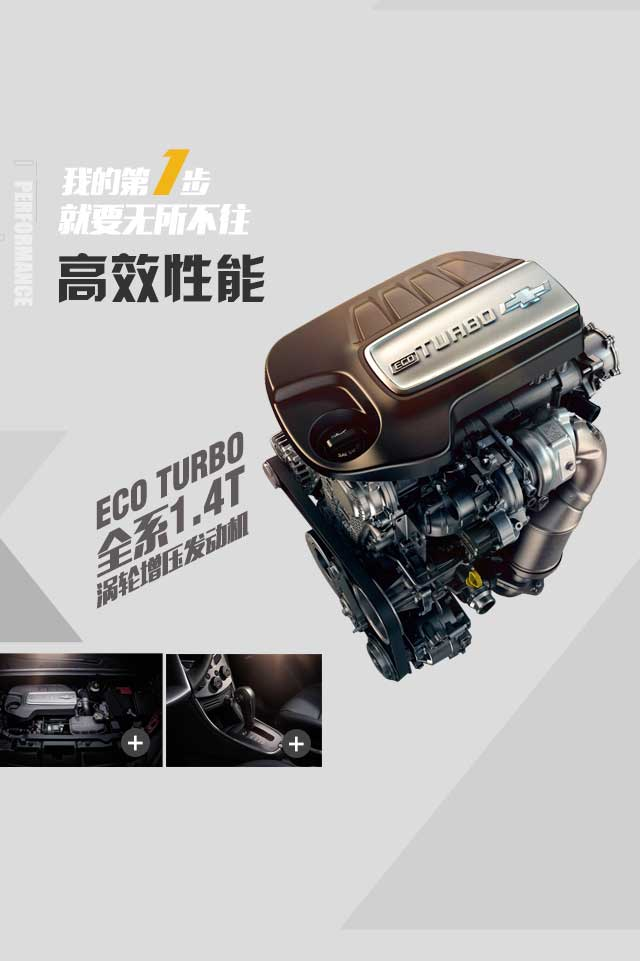
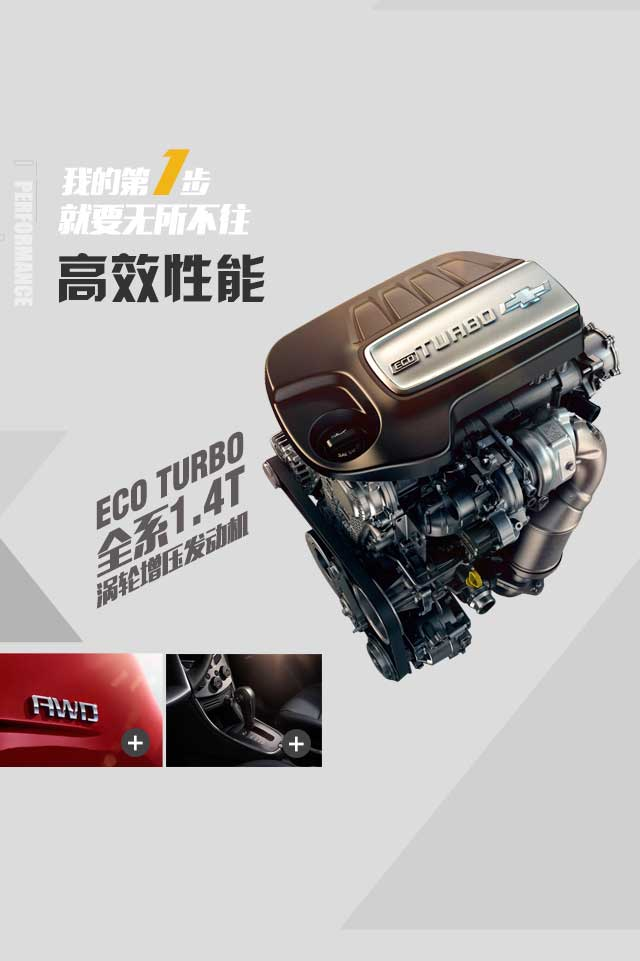
又一次修改...

Changed region(s): [[0.0, 0.6556, 0.2812, 0.8117]]

diff --git a/car-trax.html b/car-trax.html
@@ -142,10 +142,10 @@
 											<a class="aLightPic aPic1" target="_blank" href="img/trax/big_pic/big/4/1.jpg" data-word="环抱式后挡风玻璃 立体型能量双尾灯"></a>
 										</div>
 										<div class="pic pic_2">
-											<a class="aLightPic aPic2" target="_blank" href="img/trax/big_pic/big/4/5.jpg" data-word="美式肌肉轮眉"></a>
+											<a class="aLightPic aPic2" target="_blank" href="img/trax/big_pic/big/4/5.jpg" data-word="美式肌肉轮眉 全系18寸超大轮毂"></a>
 											<a class="aLightPic hide" target="_blank" href="img/trax/big_pic/big/4/4.jpg" data-word="流畅利落车顶线条 一体式刀锋行李架"></a>
 											<a class="aLightPic hide" target="_blank" href="img/trax/big_pic/big/4/2.jpg" data-word="酷锐盾型双格栅 硬朗线条切割车头"></a>
-											<a class="aLightPic aPic1" target="_blank" href="img/trax/big_pic/big/4/6.jpg" data-word="战骁式18寸超大轮毂"></a>
+											<a class="aLightPic hide" target="_blank" href="img/trax/big_pic/big/4/6.jpg" data-word="战骁式18寸超大轮毂"></a>
 											<!--
 											<a class="aLightPic aPic2 hide" target="_blank" href="img/trax/big_pic/big/4/1.jpg" data-word="a"></a>
 											-->
@@ -171,11 +171,11 @@
 								<div class="clr cmnBox box3" id="box3">
 									<div class="cnt">
 										<div class="pic pic_1">
-											<a class="aLightPic aPic1" target="_blank" href="img/trax/big_pic/big/1/1.jpg" data-word="1.4T涡轮增压发动机"></a>
+											<a class="aLightPic aPic1" target="_blank" href="img/trax/big_pic/big/1/4.jpg" data-word="AWD智能四驱系统"></a>
 										</div>
 										<div class="pic pic_2">
 											<a class="aLightPic aPic2" target="_blank" href="img/trax/big_pic/big/1/2.jpg" data-word="6速手自一体变速箱"></a>
-											<a class="aLightPic hide" target="_blank" href="img/trax/big_pic/big/1/4.jpg" data-word="AWD智能四驱系统"></a>
+											<a class="aLightPic hide" target="_blank" href="img/trax/big_pic/big/1/1.jpg" data-word="1.4T涡轮增压发动机"></a>
 											<a class="aLightPic hide" target="_blank" href="img/trax/big_pic/big/1/3.jpg" data-word="精准稳健悬挂"></a>
 										</div>
 									</div>
